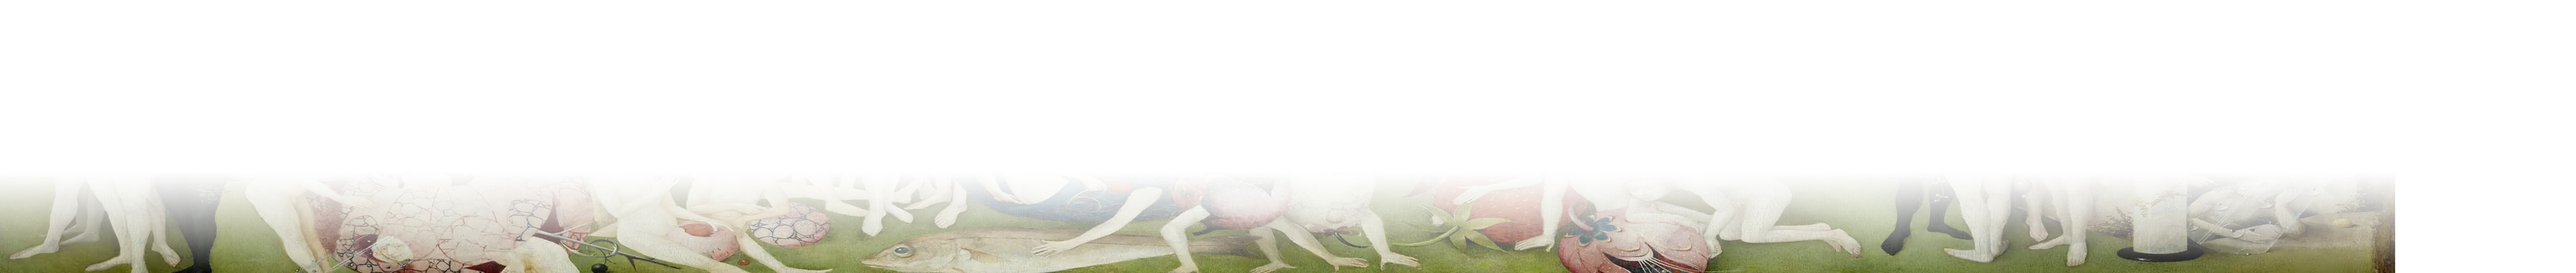
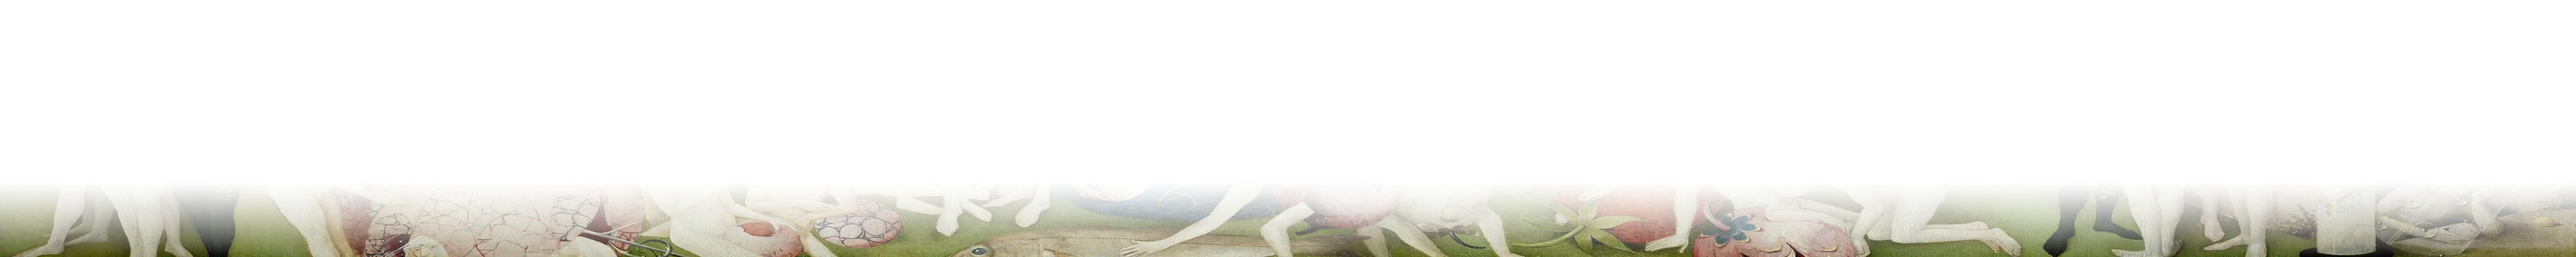
Make the reader frame render, drop the roundels, and lose the duplicate door
Three separate faults behind one complaint that the reading margins looked
unintegrated.

The painted border never rendered while reading. It sits at z-index 1 and every
view at 2; in the library that works because the view is transparent and the
paint shows through, but the reader paints a board over it. So the margins held
nothing but figures floating on an empty field. The frame now rises above the
board while reading.

The frame corners were white. The tall strips ran full height and covered the
ends of the wide ones, so each corner showed whatever sat at the top of the Hell
panel crop, which is smoke. The horizontal bands own the corners now and the
vertical ones run between them.

The top band was white at its right end because the crop ran into the gutter
between the triptych's panels. Rather than guess again, borders.py's span was
measured: 0.263 to 0.737 is the widest run of the centre panel with no divider
in it. No pixel in either band now reads above 235.

Also gone: the frieze of oval medallions and the circular rail icons, since a
figure cut out of a painting and then punched through a round hole reads as a
sticker; the Tree Man watermark, which at 14% opacity was the pale wash down the
right hand side; and Search the shelf, which was a second door into the library.
The rail marks are cut figures chosen for what they do: the reader for Library,
the messenger for Summon, the Prince for the Workshop.

Changed region(s): [[0.0, 0.6875, 1.0, 1.0]]

diff --git a/css/bosch.css b/css/bosch.css
@@ -1972,3 +1972,97 @@
     letter-spacing: .03em;
   }
 }
+
+
+/* ══════════════════════════════════════════════════════════════
+   THE READER FRAME.
+   The painted border sits at z-index 1 and every view at 2. In the library
+   that works, because the view has no background of its own and the paint
+   shows through. The reader paints a board, which meant the border was
+   covered and the margins had nothing in them but floating figures on a bare
+   field. Raise it over the board while reading.
+   ══════════════════════════════════════════════════════════════ */
+@layer wide {
+  :root[data-view="reader"] .frame { z-index: 3; }
+
+  /* The page is a sheet laid on the board, so give its edge a gilt line. */
+  .viewer-wrap {
+    box-shadow:
+      0 0 0 1px color-mix(in oklab, var(--gold) 52%, transparent),
+      0 0 0 2px color-mix(in oklab, var(--page-fg) 14%, transparent),
+      0 3px 8px rgb(28 16 6 / .28),
+      0 16px 44px rgb(28 16 6 / .24);
+  }
+
+  @media (width >= 760px) {
+    /* Tighter, so the figures sit against the paint rather than adrift in it. */
+    .marginalia { width: clamp(54px, 6.2vw, 84px); }
+    .marginalia-l { inset-inline-start: calc(var(--frame-w) * .78); }
+    .marginalia-r { inset-inline-end: calc(var(--frame-w) * .78); }
+    :root[data-marginalia="on"] { --gutter: calc(var(--frame-w) * .78 + clamp(56px, 6.6vw, 90px)); }
+  }
+}
+
+
+/* ══════════════════════════════════════════════════════════════
+   No more circles. A figure cut out of a painting and then punched
+   through a round hole reads as a sticker; leave the silhouette alone.
+   ══════════════════════════════════════════════════════════════ */
+@layer wide {
+  .rail-beast {
+    flex: none;
+    display: grid;
+    place-items: center;
+    width: 34px;
+    height: 34px;
+    border-radius: 0;
+    overflow: visible;
+    box-shadow: none;
+    background: none;
+  }
+  .rail-beast .demon,
+  .rail-beast .beast {
+    width: 100%;
+    height: 100%;
+    object-fit: contain;
+    filter: drop-shadow(0 1px 3px rgb(0 0 0 / .65));
+  }
+  .rail-foot span { width: 84px; }
+  .rail-foot .demon { filter: drop-shadow(0 2px 6px rgb(0 0 0 / .6)); }
+
+  /* The frieze is gone, so the tools sit directly under the painted band. */
+  @media (width >= 760px) {
+    .shelf-tools { padding-block: calc(var(--frame-h) + 18px) 4px; }
+  }
+  @media (width < 760px) {
+    .shelf-tools { padding-block: 16px 4px; }
+  }
+
+  /* The reader chrome now sits over painted border, so it needs to hold its
+     own ground rather than let the painting through behind the type. */
+  .chrome {
+    background: color-mix(in oklab, var(--bg-raised) 94%, transparent);
+    backdrop-filter: blur(24px) saturate(1.2);
+    -webkit-backdrop-filter: blur(24px) saturate(1.2);
+  }
+  .chrome-top { box-shadow: 0 1px 0 color-mix(in oklab, var(--gold) 34%, transparent); }
+  .chrome-bottom { box-shadow: 0 -1px 0 color-mix(in oklab, var(--gold) 28%, transparent); }
+}
+
+
+@layer wide {
+  /* The Tree Man watermark sat behind the shelf at low opacity and read as a
+     pale wash down the right hand side. The frame and the rail carry the art
+     now, so it has nothing left to do. */
+  .watermark { display: none; }
+}
+
+
+@layer wide {
+  /* The four bands were all full length, so the tall strips covered the ends of
+     the wide ones and the corners showed whatever happened to be at the top of
+     the Hell panel crop, which is smoke. Let the horizontal bands own the
+     corners and run the vertical ones between them. */
+  .frame-left,
+  .frame-right { inset-block: var(--frame-h) var(--frame-h); }
+}

diff --git a/index.html b/index.html
@@ -121,15 +121,13 @@
   </div>
   <ul class="rail-nav">
     <li><button class="rail-item" data-rail="library" aria-current="page">
-      <span class="rail-beast" data-beast="owl"></span><span>Library</span></button></li>
+      <span class="rail-beast" data-demon="reader"></span><span>Library</span></button></li>
     <li><button class="rail-item" data-rail="summon">
-      <span class="rail-beast" data-beast="strawberry"></span><span>Summon a book</span></button></li>
-    <li><button class="rail-item" data-rail="search">
-      <span class="rail-beast" data-beast="prince"></span><span>Search the shelf</span></button></li>
+      <span class="rail-beast" data-demon="messenger"></span><span>Summon a book</span></button></li>
     <li><button class="rail-item" data-rail="workshop">
-      <span class="rail-beast" data-beast="treeDisk"></span><span>The workshop</span></button></li>
+      <span class="rail-beast" data-demon="prince"></span><span>The workshop</span></button></li>
   </ul>
-  <div class="rail-foot" aria-hidden="true"><span data-beast="bagpipe"></span></div>
+  <div class="rail-foot" aria-hidden="true"><span data-demon="wheelman"></span></div>
 </nav>
 
 <!-- ═══════════════════ LIBRARY ═══════════════════ -->
@@ -146,23 +144,8 @@
     <p class="shelf-count" id="shelfCount" aria-live="polite"></p>
   </header>
 
-  <div class="watermark" aria-hidden="true" data-beast="treeInside"></div>
 
   <div class="scroller" id="libraryScroller">
-    <div class="frieze" aria-hidden="true">
-      <span data-beast="goldfinch"></span>
-      <span data-beast="salamander"></span>
-      <span data-beast="butterfly"></span>
-      <span data-beast="owl"></span>
-      <span data-beast="drum"></span>
-      <span data-beast="cerberus"></span>
-      <span data-beast="flower"></span>
-      <span data-beast="rabbit"></span>
-      <span data-beast="lobster"></span>
-      <span data-beast="raven"></span>
-      <span data-beast="greenPerson"></span>
-      <span data-beast="iceSkater"></span>
-    </div>
     <div class="shelf-tools">
       <label class="searchbox">
         <svg class="ico" aria-hidden="true"><use href="#i-eye"/></svg>

diff --git a/sw.js b/sw.js
@@ -6,7 +6,7 @@
  * VERSION changes, and it takes over the next time the app is launched.
  */
 
-const VERSION = '54bad02e2cb2';
+const VERSION = '168013b0b1c9';
 const CACHE = 'triptych-' + VERSION;
 
 const PRECACHE = [

diff --git a/art/borders.py b/art/borders.py
@@ -24,11 +24,11 @@ OUT = os.path.join(ROOT, 'assets', 'edge')
 # name: (plate, crop l/t/r/b as fractions, output w/h, fade direction, fade span)
 STRIPS = {
     # Tall edges, from the Hell panel, which is naturally 1:2.4 and packed.
-    'left':   ('hell-panel',  (0.015, 0.06, 0.235, 1.00), (340, 3400), 'right',  0.34),
-    'right':  ('hell-panel',  (0.765, 0.06, 0.985, 1.00), (340, 3400), 'left',   0.34),
+    'left':   ('hell-panel',  (0.090, 0.10, 0.330, 0.97), (360, 3400), 'right',  0.26),
+    'right':  ('hell-panel',  (0.640, 0.10, 0.880, 0.97), (360, 3400), 'left',   0.26),
     # Wide edges, from the procession and the crowd in the centre panel.
-    'top':    ('garden-full', (0.268, 0.345, 0.772, 0.545), (3200, 340), 'down',  0.38),
-    'bottom': ('garden-full', (0.268, 0.755, 0.772, 0.972), (3200, 340), 'up',    0.38),
+    'top':    ('garden-full', (0.268, 0.360, 0.732, 0.530), (3200, 320), 'down',  0.30),
+    'bottom': ('garden-full', (0.268, 0.770, 0.732, 0.958), (3200, 320), 'up',    0.30),
     # The iPad rail is a whole column of Hell, opaque all the way across.
     'rail':   ('hell-panel',  (0.10, 0.02, 0.62, 1.00), (620, 3400), None, 0),
 }
